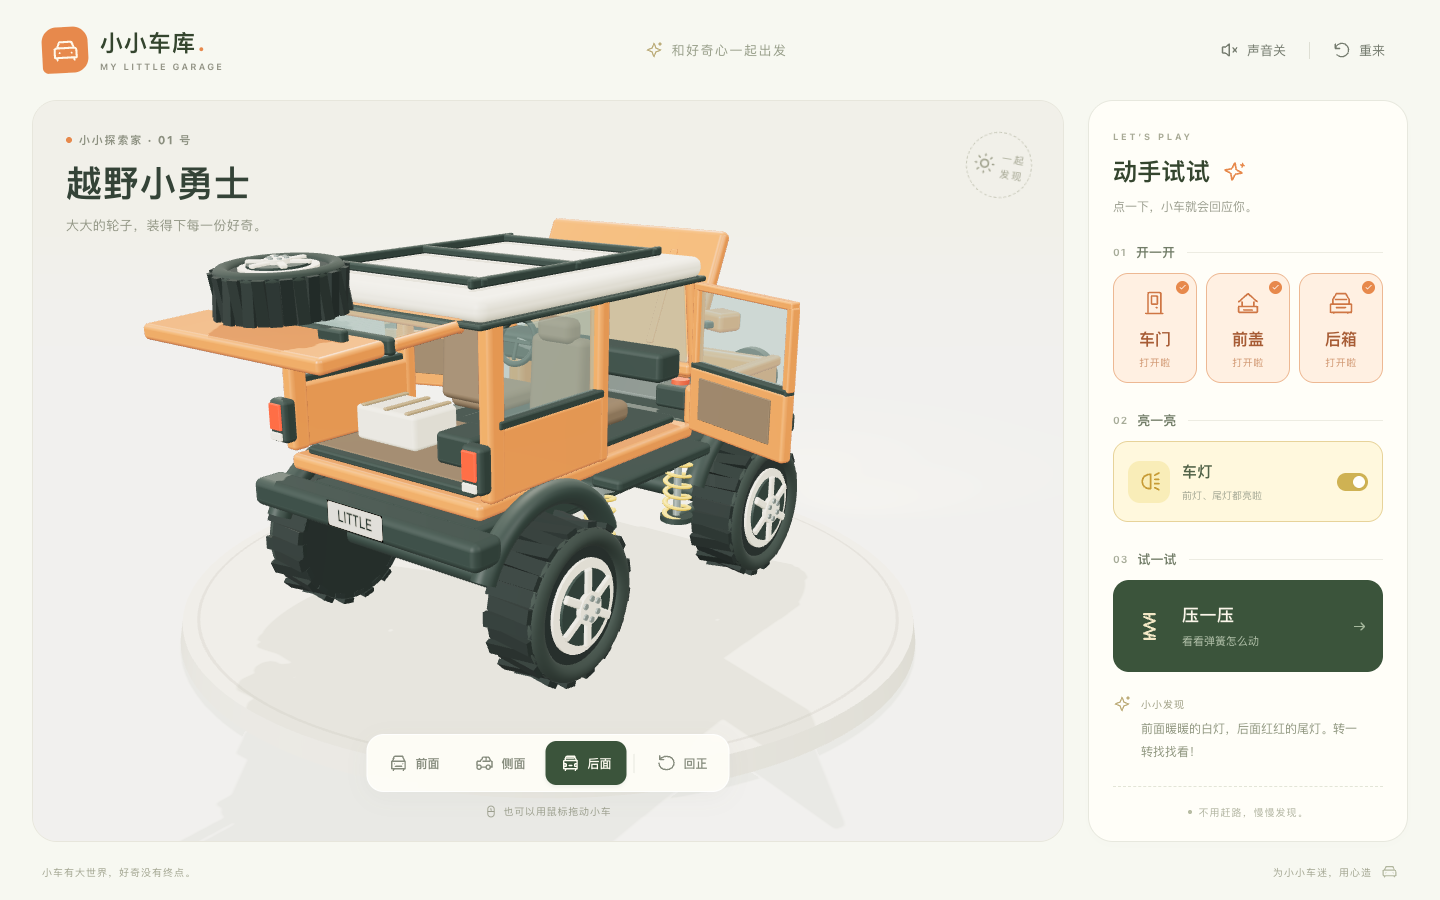
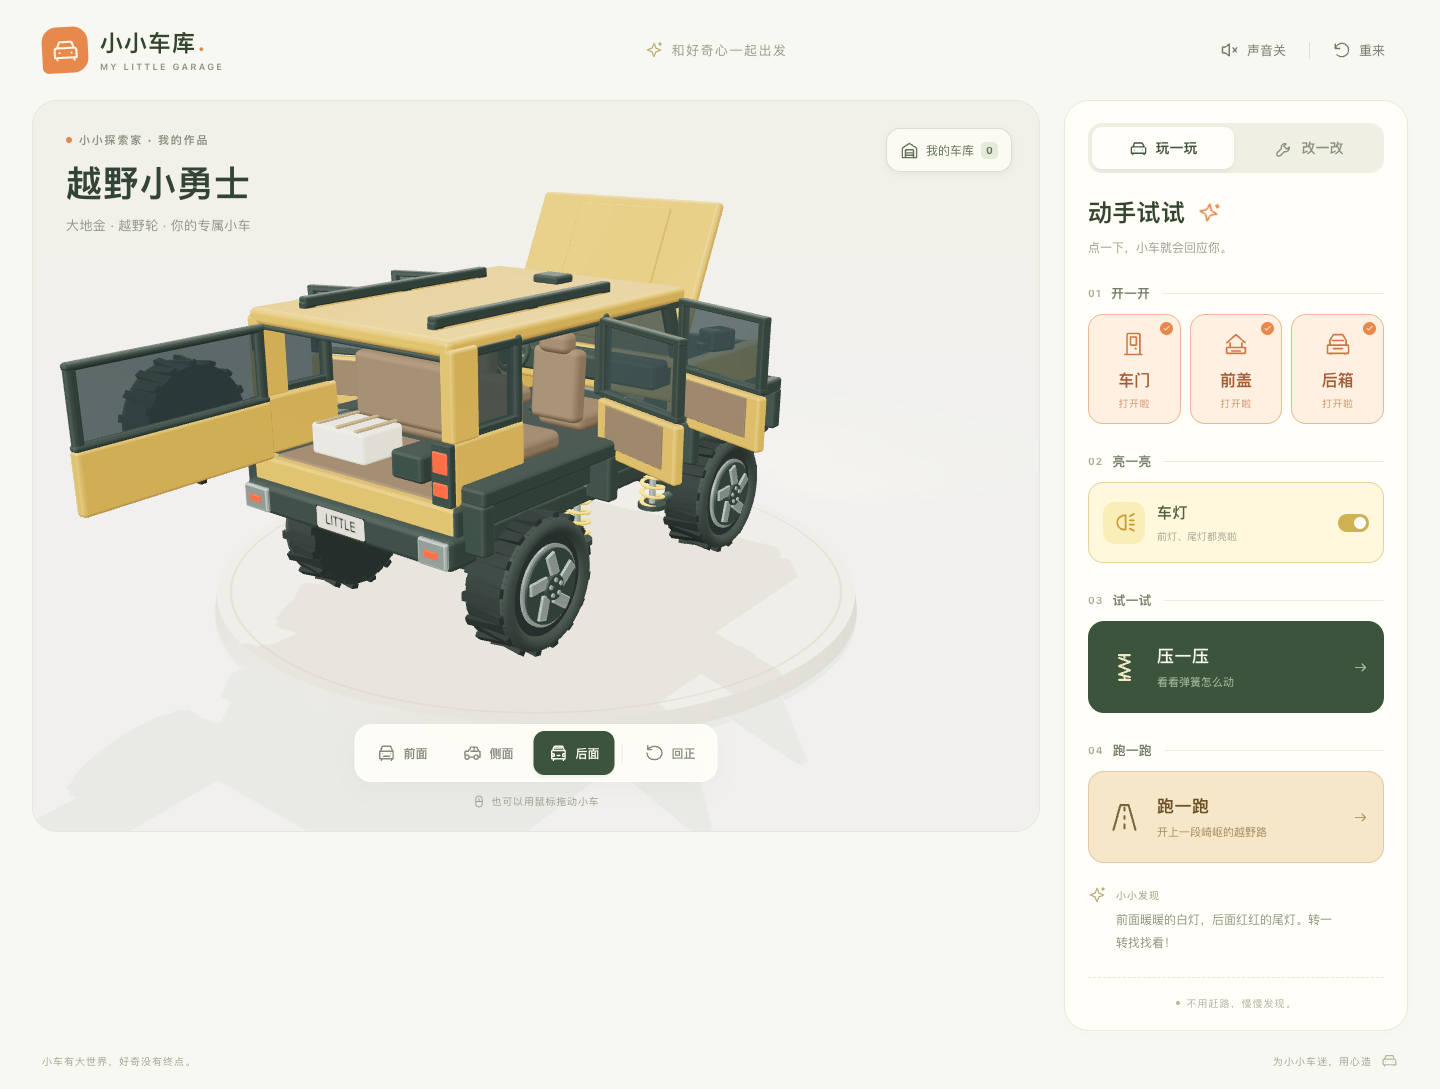
v0.4 越7 复刻步骤5：作品预览改方盒子轮廓，截图、文档与版本号
- 我的车库预览 SVG：平车顶、垂直前后端、黑色轮眉、背挂备胎
- docs 截图全部刷新，新增 replica-* 四视角
- 方案文档记录验证结果、与照片的差距清单与取舍；README/实现记录/试玩反馈/改进建议同步
- 版本 0.4.0；单元 25 项、浏览器 14 项通过

diff --git a/src/workshop.ts b/src/workshop.ts
@@ -61,20 +61,25 @@ function carPreview(design: CarDesign): string {
   const r = design.wheels === 'crawler' ? 23 : design.wheels === 'road' ? 15 : 19;
   const lift = design.height === 'high' ? 10 : design.height === 'raised' ? 5 : 0;
   const y = 116 - r - lift;
-  const roof = design.roof === 'cargo' ? '<rect x="106" y="' + (y - 56) + '" width="67" height="13" rx="4" fill="#9da981"/><path d="M120 ' + (y - 56) + 'v13m39-13v13" stroke="#f4e6c8" stroke-width="4"/>'
-    : design.roof === 'tent' ? '<path d="M99 ' + (y - 44) + 'l39-30 40 30Z" fill="#d5b56e" stroke="#657159" stroke-width="2"/><path d="m128 ' + (y - 44) + ' 10-16 11 16" fill="#657159"/>' : '';
-  const tires = [77, 188].map((x) => '<circle cx="' + x + '" cy="' + (122 - r) + '" r="' + r + '" fill="#34443a"/>' +
+  const roofY = y - 58;
+  const roof = design.roof === 'cargo' ? '<rect x="96" y="' + (roofY - 13) + '" width="72" height="13" rx="4" fill="#9da981"/><path d="M110 ' + (roofY - 13) + 'v13m44-13v13" stroke="#f4e6c8" stroke-width="4"/>'
+    : design.roof === 'tent' ? '<path d="M90 ' + roofY + 'l42-30 42 30Z" fill="#d5b56e" stroke="#657159" stroke-width="2"/><path d="m121 ' + roofY + ' 11-16 11 16" fill="#657159"/>' : '';
+  const tires = [72, 190].map((x) => '<circle cx="' + x + '" cy="' + (122 - r) + '" r="' + r + '" fill="#34443a"/>' +
     '<circle cx="' + x + '" cy="' + (122 - r) + '" r="' + (r - 2) + '" fill="none" stroke="#6a7669" stroke-width="2" stroke-dasharray="' + (design.wheels === 'crawler' ? '5 4' : '2 2') + '"/>' +
     '<circle cx="' + x + '" cy="' + (122 - r) + '" r="' + r * 0.54 + '" fill="' + (design.wheels === 'crawler' ? '#d6b266' : '#eae6d4') + '"/>' +
     '<circle cx="' + x + '" cy="' + (122 - r) + '" r="4" fill="#657159"/>').join('');
-  return '<svg viewBox="0 0 260 144" fill="none" aria-hidden="true"><ellipse cx="132" cy="124" rx="97" ry="9" fill="#dddccc"/>' +
-    '<path d="M77 ' + y + 'v25m111-25v25" stroke="#bda75d" stroke-width="5"/>' +
-    '<path d="M44 ' + (y - 18) + 'h42l8-24h111v54H44Z" fill="' + paint + '" stroke="#596b5633" stroke-width="2" stroke-linejoin="round"/>' +
-    '<rect x="89" y="' + (y - 45) + '" width="120" height="7" rx="3" fill="#f0e7ce"/>' +
-    '<path d="M99 ' + (y - 34) + 'h29v23H92Zm36 0h27v23h-27Zm33 0h29v23h-29Z" fill="#c2d5cc"/>' +
-    '<path d="M131 ' + (y - 36) + 'v42m33-42v42M117 ' + (y - 4) + 'h7" stroke="#344e4566" stroke-width="2"/>' +
-    '<rect x="103" y="' + (y - 1) + '" width="15" height="10" rx="2" fill="#f3e9d3"/>' +
-    '<rect x="38" y="' + (y + 5) + '" width="175" height="8" rx="3" fill="#576655"/><rect x="43" y="' + (y - 15) + '" width="6" height="10" rx="2" fill="#f9eac0"/>' +
+  // Boxy silhouette: flat roof, upright ends, black eyebrows over each wheel, spare tyre on the tail.
+  return '<svg viewBox="0 0 260 144" fill="none" aria-hidden="true"><ellipse cx="132" cy="124" rx="100" ry="9" fill="#dddccc"/>' +
+    '<path d="M72 ' + y + 'v25m118-25v25" stroke="#bda75d" stroke-width="5"/>' +
+    '<path d="M34 ' + (y - 22) + 'h44v-36h137v58H34Z" fill="' + paint + '" stroke="#596b5633" stroke-width="2" stroke-linejoin="round"/>' +
+    '<rect x="80" y="' + (y - 60) + '" width="133" height="6" rx="3" fill="#2f3a35"/>' +
+    '<path d="M82 ' + (y - 52) + 'l10-12h118v30H82Z" fill="#3d4b4d"/>' +
+    '<path d="M124 ' + (y - 52) + 'v30m40-30v30" stroke="#f0e7ce55" stroke-width="2"/>' +
+    '<path d="M148 ' + (y - 8) + 'h7m-56 0h7" stroke="#e9e1cb" stroke-width="3"/>' +
+    '<rect x="30" y="' + (y + 6) + '" width="190" height="8" rx="3" fill="#2f3a35"/>' +
+    '<path d="M50 ' + (y + 6) + 'h44v-10H50Zm118 0h44v-10h-44Z" fill="#2f3a35"/>' +
+    '<rect x="34" y="' + (y - 20) + '" width="18" height="6" rx="1.5" fill="#2f3a35"/><rect x="36" y="' + (y - 19) + '" width="5" height="4" fill="#f9eac0"/>' +
+    '<circle cx="222" cy="' + (y - 4) + '" r="16" fill="#34443a"/><circle cx="222" cy="' + (y - 4) + '" r="8" fill="#eae6d4"/>' +
     roof + tires + '</svg>';
 }
 

diff --git a/docs/车型复刻-越7方案.md b/docs/车型复刻-越7方案.md
@@ -2,7 +2,7 @@
 
 **日期：2026-09-14**  
 **目标版本：v0.4**  
-**状态：方案已定，按步骤逐步实现，每步完成后提交并在本文勾选。**  
+**状态：五步全部完成（v0.4.0），等待孩子辨认。**  
 **依据：[第一次亲子试玩反馈](./亲子试玩反馈-第一次.md)第三条，家长选择 A 路线（神似复刻）并提供参考照片。**
 
 ## 参考照片
@@ -36,31 +36,31 @@
 
 每一步截图对比照片，通过后提交。
 
-### 步骤 1：车身比例与外壳 ⬜
+### 步骤 1：车身比例与外壳 ✅
 
 - 车身加长到约 4.6 单位、加宽到约 2.5，车顶平直；A 柱倾角减小；前后端垂直。
 - 车漆默认色改为大地金（保留 id，改色值与名称）；黑色下裙贯穿；车顶双行李架。
 - 单元测试：既有几何测试全部通过（铰链名、轮位、弹簧、踏板不变）。
 
-### 步骤 2：前脸 ⬜
+### 步骤 2：前脸 ✅
 
 - 贯穿黑色灯带，两端各两个竖排方灯（可点亮），中央装饰点阵。
 - 车身色保险杠面 + 黑色下护板 + 银色饰板 + 两个方形雾灯。
 - 平引擎盖中央隆起，天线包。
 
-### 步骤 3：侧面 ⬜
+### 步骤 3：侧面 ✅
 
 - 方形黑色轮拱替换圆环轮拱（保持随轮距变化）。
 - 悬浮车顶：立柱涂黑，前门窗、后门窗、后侧窗三段玻璃，D 柱车身色。
 - 隐藏式门把手、黑色方形后视镜、前翼子板通风口。
 - 轮毂改为五辐涡轮式黑银配色（三种轮胎各自保留尺寸差异）。
 
-### 步骤 4：车尾 ⬜
+### 步骤 4：车尾 ✅
 
 - 竖向双段尾灯（可点亮）、黑色后保险杠带银色角、后窗放大。
 - 备胎位置与尾门把手按照片调整。
 
-### 步骤 5：作品预览图与文档 ⬜
+### 步骤 5：作品预览图与文档 ✅
 
 - 「我的车库」侧视预览 SVG 改为方盒子轮廓。
 - 截图放入 `docs/screenshots/`；README、实现记录、试玩反馈文档更新；版本号 0.4.0。
@@ -69,9 +69,30 @@
 
 | 步骤 | 提交 | 备注 |
 | --- | --- | --- |
-| 方案 | | 本文；参考照片目录加入 .gitignore |
-| 1 | | |
-| 2 | | |
-| 3 | | |
-| 4 | | |
-| 5 | | |
+| 方案 | c598b50 | 本文；参考照片目录加入 .gitignore |
+| 1-4 | 82172b3 | 车身、前脸、侧面、车尾一次重建（各部分相互依赖，分开提交会出现中间态穿模） |
+| 5 | 见 git log | 预览 SVG 方盒子化、截图、文档、版本 0.4.0 |
+
+## 验证结果（2026-09-14）
+
+| 检查 | 结果 |
+| --- | --- |
+| TypeScript 类型检查与生产构建 | 通过 |
+| 单元测试 | 25 项通过（铰链名、轮位、弹簧、踏板、试跑全部保持） |
+| 浏览器回归 | 14 项通过 |
+| 实际画面 | [正面](./screenshots/replica-front.png) · [侧面](./screenshots/replica-side.png) · [后面](./screenshots/replica-rear.png) · [默认视角](./screenshots/replica-home.png) |
+| 孩子辨认 | 待反馈 |
+
+## 与照片的差距（诚实清单）
+
+- 车身仍是圆角方块拼装，没有照片里的曲面过渡和腰线折角。
+- 灯带中央是装饰点阵，不是品牌字母；车尾没有车型字样。
+- 轮胎偏厚偏"玩具"，照片是 20 寸薄胎；三种轮胎选项保留了这个差异。
+- 前翼子板通风口只是一个小黑框。
+- 后 45° 看，尾门横开方向与照片一致（铰链在左），备胎位置偏右与照片一致。
+
+## 执行中的取舍
+
+- 步骤 1 到 4 合并为一次提交：前脸、侧面、车尾的几何相互引用同一组常量（车宽、前后端、腰线、车顶），分开提交会出现半新半旧的穿模中间态，不利于回滚。
+- 默认车漆改为「大地金」并保留原 id `orange`，已保存的作品自动变为新色，不需要迁移数据。
+- 首车名字保持「越野小勇士」，不使用车型名。

diff --git a/README.md b/README.md
@@ -2,9 +2,9 @@
 
 一个给小小车迷的三维汽车互动网页：转一转观察越野车，打开车门、前盖和后箱，点亮车灯，看看悬挂怎样压缩、回弹。可以换颜色、轮胎、底盘高度和车顶装备，给自己改的小车起名字、存进车库，再开上一段崎岖的越野路跑一圈。
 
-**当前版本：v0.3 · 跑一跑。** 改装范围见[轻改装需求](docs/汽车小车库-轻改装需求.md)，试跑方案见[一键试跑方案](docs/一键试跑方案.md)。
+**当前版本：v0.4 · 按真实车型复刻外观。** 改装范围见[轻改装需求](docs/汽车小车库-轻改装需求.md)，试跑见[一键试跑方案](docs/一键试跑方案.md)，外观复刻见[车型复刻方案](docs/车型复刻-越7方案.md)。
 
-模型由程序构建，包含简化内饰、发动机、后箱和独立悬挂。运行时使用本地资源，无需账号、API Key 或付费服务。
+模型由程序构建，外观按一款真实方盒子越野车的照片神似复刻（不用真实车标与车型名），包含简化内饰、发动机、后箱和四轮独立悬挂。运行时使用本地资源，无需账号、API Key 或付费服务。
 
 ## 打开试玩
 
@@ -24,7 +24,7 @@
 点「玩一玩」摆弄小车：
 
 - 鼠标拖动：从不同角度看车。也可直接点「前面」「侧面」「后面」。
-- 车门、前盖、后箱：分别点击打开，再点一次关闭，可以同时打开。后箱像真正的越野车一样横向侧开，备胎挂在门上一起摆出。
+- 车门、前盖、后箱：分别点击打开，再点一次关闭，可以同时打开。四扇车门一起开；后箱像真正的越野车一样横向侧开，备胎挂在门上一起摆出。
 - 车灯：切换前灯和尾灯，换视角后保持状态。
 - 压一压：播放悬挂压缩与回弹；播放中避免重复叠加，结束后可以再试。
 - 跑一跑：展台变成一段高低起伏的越野路，小车原地前进约二十秒：轮子转动，四个轮子各自随路面起伏，弹簧各自伸缩，车身跟着俯仰侧倾。跑之前会自动关上车门、前盖、后箱，跑完再打开；灯光保持。跑的时候仍可拖动视角、切换观察角度，也可以去「改一改」换装备。
@@ -34,13 +34,13 @@
 
 点「改一改」当小小改装师：
 
-- 车身颜色：橘子橙、天空蓝、森林绿、番茄红、太阳黄。
+- 车身颜色：大地金、天空蓝、森林绿、番茄红、太阳黄。
 - 轮子：公路轮、越野轮、大脚轮；轮胎大小、胎纹、轮毂和备胎一起改变。
 - 底盘：原来高、高一点、再高点。车身升高，轮胎继续接地，可以切回「玩一玩」压一压。抬高后车门下方会自动出现侧踏板，方便司机上下车。
 - 车顶：不装、行李箱、小帐篷。
 - 名字：爸爸可帮忙输入，最多 12 个字；点名字旁的骰子也能自动起名。
 - 存进车库：保存当前造型与名字。改装后另存新作品，同样的作品不会重复占位。
-- 恢复原样：换回最初的橙色越野小勇士，已存作品不受影响。
+- 恢复原样：换回最初的大地金越野小勇士，已存作品不受影响。
 
 画面右上方的「我的车库」最多放 6 辆作品，点小车卡片就能开出来。可移走一辆并在本次打开期间「放回来」；存入新作品后结束上一次移走的撤销。
 

diff --git a/docs/改进建议与后续方向.md b/docs/改进建议与后续方向.md
@@ -58,7 +58,7 @@
 
 ## 五、来自孩子的反馈
 
-第一次试玩后孩子提出三个问题，记录与处理见[第一次亲子试玩反馈](./亲子试玩反馈-第一次.md)。其中侧踏板与横开后门已实现；「指定真实车型复刻」待家长选路线。孩子的问题都在用真车标准衡量，后续应优先补真实车辆细节而非卡通元素。
+第一次试玩后孩子提出三个问题，记录与处理见[第一次亲子试玩反馈](./亲子试玩反馈-第一次.md)。其中侧踏板与横开后门已实现；「指定真实车型复刻」已按家长提供的越7 照片完成（v0.4，见[车型复刻方案](./车型复刻-越7方案.md)）。孩子的问题都在用真车标准衡量，后续应优先补真实车辆细节而非卡通元素。
 
 ## 六、当前不建议做
 

diff --git a/docs/亲子试玩反馈-第一次.md b/docs/亲子试玩反馈-第一次.md
@@ -62,6 +62,6 @@
 | --- | --- | --- |
 | 抬高底盘后怎么上车 | 已加自动侧踏板 | v0.2.1 |
 | 后门改横向侧开 | 已改 | v0.2.1 |
-| 指定真实车型复刻 | 家长选 A 路线，目标广汽传祺越7，进行中 | v0.4 |
+| 指定真实车型复刻 | 家长选 A 路线，目标广汽传祺越7，已完成，待孩子辨认 | v0.4 |
 
 孩子的三个问题都指向同一件事：**他在用真车的标准看这辆车。** 这比"好不好玩"更值得记住，下一轮的方向应该是继续补真实车辆细节（反光镜可折、雨刮、油箱盖、拖车钩能用），而不是加更多卡通元素。

diff --git a/docs/实现与验证记录.md b/docs/实现与验证记录.md
@@ -110,6 +110,8 @@
 
 v0.3 新增「跑一跑」：分步方案、执行记录与验证见[一键试跑方案](./一键试跑方案.md)。
 
+v0.4 按家长提供的真实车型照片复刻外观：见[车型复刻方案](./车型复刻-越7方案.md)。
+
 代码审阅后的改进建议、优先级与工程待办见[改进建议与后续方向](./改进建议与后续方向.md)。
 
 ## 建议的第一次试玩
